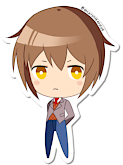
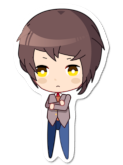
Changed MC chibi

diff --git a/src/components/panels/credits.vue b/src/components/panels/credits.vue
@@ -6,9 +6,14 @@
 			Doki Doki Dialog Generator developed by EDave64
 			<br />Based on gemdude46's DDLC Shitpost generator
 		</p>
-		<p>MC Classic Sprite by Childish-N</p>
-		<p>MC Sprite by Childish-N</p>
-		<p>MC Chibis by GyleToTheRescue</p>
+		<p>
+			MC Classic Sprite by Childish-N
+			<br />MC Classic Chibi by GyleToTheRescue
+		</p>
+		<p>
+			MC Sprite by Childish-N
+			<br />MC Chibi by SlightlySimple
+		</p>
 		<p>
 			FeMC Sprite by Meddy-sin
 			<br />FeMC Casual Sprite by SlightlySimple
